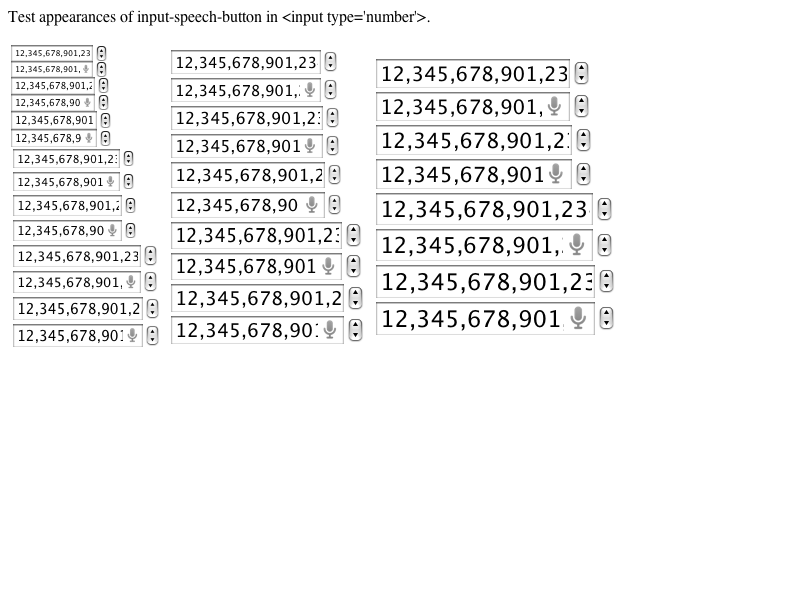
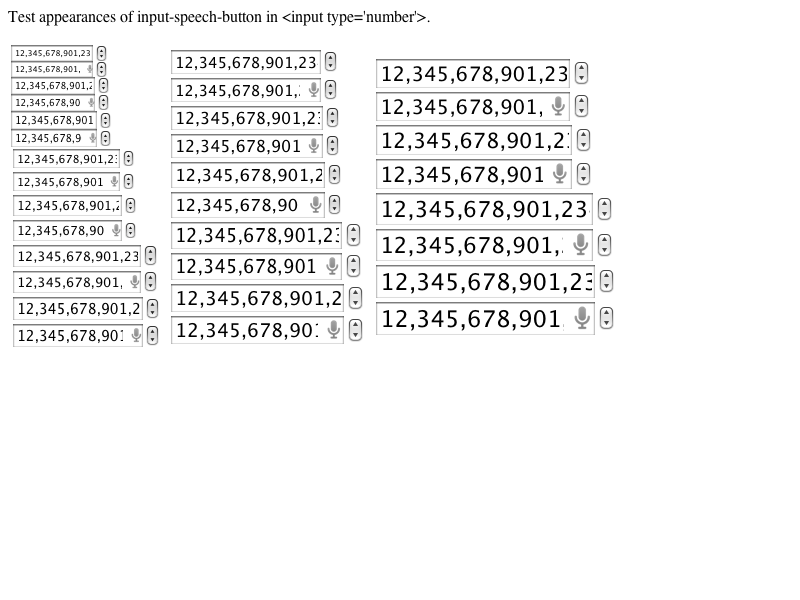
2011-05-04  Satish Sampath  <satish@chromium.org>
Reviewed by Tony Gentilcore.

        Layout the speech input button to the left of outer spin button properly.
        https://bugs.webkit.org/show_bug.cgi?id=59742

        * platform/chromium-mac/fast/speech/input-appearance-numberandspeech-expected.png:
        * platform/chromium-mac/fast/speech/input-appearance-numberandspeech-expected.txt:
        * platform/chromium/test_expectations.txt:
2011-05-04  Satish Sampath  <satish@chromium.org>

        Reviewed by Tony Gentilcore.

        Layout the speech input button to the left of outer spin button properly.
        https://bugs.webkit.org/show_bug.cgi?id=59742

        * rendering/RenderTextControlSingleLine.cpp:
        (WebCore::RenderTextControlSingleLine::layout):

Identifier: 75411@main
git-svn-id: https://svn.webkit.org/repository/webkit/trunk@85726 268f45cc-cd09-0410-ab3c-d52691b4dbfc

diff --git a/Source/WebCore/rendering/RenderTextControlSingleLine.cpp b/Source/WebCore/rendering/RenderTextControlSingleLine.cpp
@@ -309,6 +309,9 @@ void RenderTextControlSingleLine::layout()
             button->setLocation(x, y);
         } else {
             int x = width() - borderRight() - paddingRight() - button->width();
+            if (m_outerSpinButton && m_outerSpinButton->renderBox())
+                x -= m_outerSpinButton->renderBox()->width();
+
             RenderBox* spinBox = m_innerSpinButton ? m_innerSpinButton->renderBox() : 0;
             if (style()->isLeftToRightDirection())
                 x -= spinBox ? spinBox->width() : 0;
